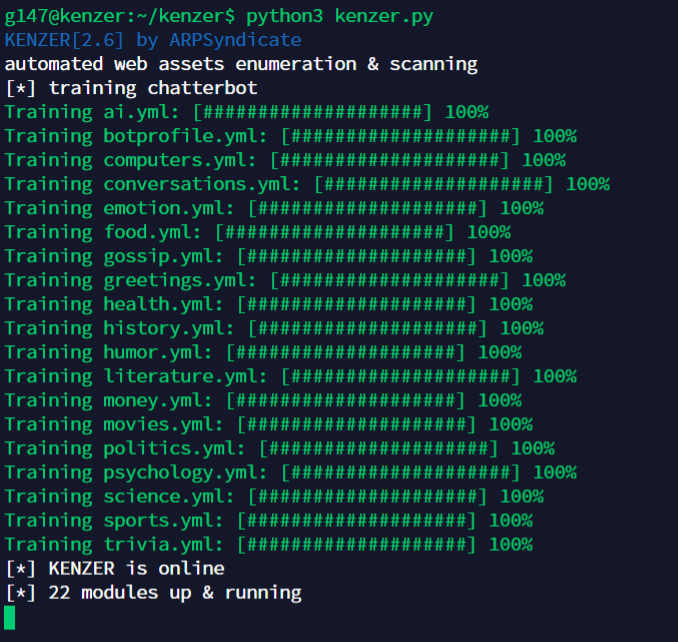
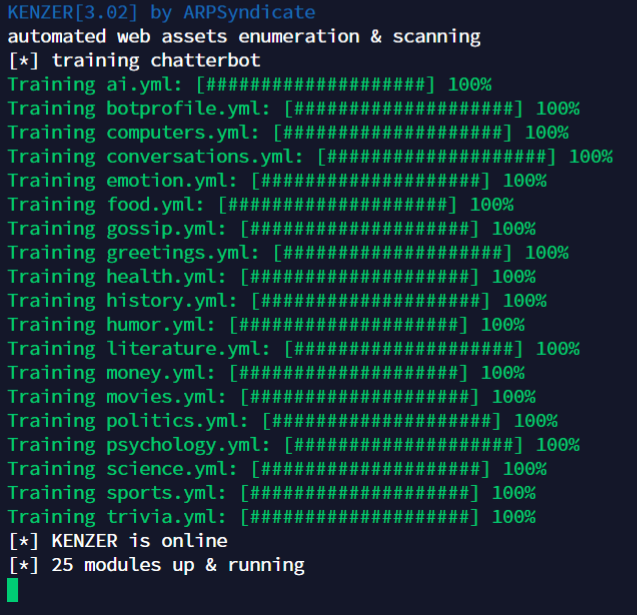
kenzer[3.02]

diff --git a/kenzer.py b/kenzer.py
@@ -49,7 +49,7 @@ class Kenzer(object):
     
     #initializations
     def __init__(self):
-        print(BLUE+"KENZER[3.01] by ARPSyndicate"+CLEAR)
+        print(BLUE+"KENZER[3.02] by ARPSyndicate"+CLEAR)
         print(YELLOW+"automated web assets enumeration & scanning"+CLEAR)
         self.client = zulip.Client(email=_BotMail, site=_Site, api_key=_APIKey)
         self.upload=False
@@ -81,7 +81,7 @@ class Kenzer(object):
 
     #manual
     def man(self):
-        message = "**KENZER[3.01]**\n"
+        message = "**KENZER[3.02]**\n"
         message +="**KENZER modules**\n"
         message +="  `subenum` - enumerates subdomains\n"
         message +="  `webenum` - enumerates webservers\n"
@@ -533,7 +533,7 @@ class Kenzer(object):
         if self.sender_email == _BotMail:
             return
         try:
-            if len(content)>1 and content[0].lower() == "kenzer":
+            if len(content)>1 and content[0].lower() == "@**{0}**".format(_BotMail.split('@')[0].replace("-bot","")):
                 if content[1].lower() == "man":
                     if len(content)==2:
                         self.man()
@@ -599,14 +599,11 @@ class Kenzer(object):
                     self.upload = not self.upload
                     self.sendMessage("upload: "+str(self.upload))
                 else:
-                    message = "excuse me??"
+                    message = self.chatbot.get_response(' '.join(self.content))
+                    message = message.serialize()['text']
                     self.sendMessage(message)
-            else:
-                message = self.chatbot.get_response(' '.join(self.content))
-                message = message.serialize()['text']
-                self.sendMessage(message)
-        except:
-            self.sendMessage("an exception occurred")
+        except Exception as exception:
+            self.sendMessage("Exception: {}".format(type(exception).__name__))
         return    
 
 #main

diff --git a/modules/enumerator.py b/modules/enumerator.py
@@ -26,8 +26,8 @@ class Enumerator:
         output =path+"/subenum.kenz"
         if(os.path.exists(output)):
             self.shuffsolv(output, domain)
-            os.system("mv {1} {0}".format(output, path+"/shuffsolv.log"))
-        os.system("cat {0}/subfinder.log {0}/subenum.kenz* {0}/shuffledns.log {0}/gitdomain.log | sort -u > {1}".format(path, output))
+            os.system("rm {0}".format(output))
+        os.system("cat {0}/subfinder.log {0}/subenum.kenz* {0}/shuffledns.log {0}/shuffsolv.log {0}/gitdomain.log | sort -u > {1}".format(path, output))
         return("completed subenum for: "+domain) 
     
     #enumerates webservers
@@ -39,7 +39,7 @@ class Enumerator:
             return("run portenum for: "+domain)
         output = path+"/httpx.log"
         if(os.path.exists(output)):
-            os.system("mv {0} {0}.old".format(output))
+            os.system("rm {0}".format(output))
         self.httpx(subs, output)
         output = path+"/webenum.kenz"
         if(os.path.exists(output)):
@@ -83,6 +83,8 @@ class Enumerator:
         if(os.path.exists(subs) == False):
             return("run subenum for: "+domain)
         output = path+"/dnsenum.kenz"
+        if(os.path.exists(output)):
+            os.system("mv {0} {0}.old".format(output))
         os.system("dnsx -l {0} -o {1} -a -aaaa -cname -mx -ptr -soa -txt -resp -retry 2".format(subs, path))
         return("completed dnsenum for: "+domain)
     

diff --git a/README.md b/README.md
@@ -10,11 +10,13 @@
 3. Create a new generic bot named `kenzer`<br>
 4. Add all the configurations in `configs/kenzer.conf`<br>
 5. Install/Run using - <br>
-    * `./install.sh -binaries` [if you need `kenzer-compatible` binaries to be installed]<br>
+    * `./install.sh -b` [if you need `kenzer-compatible` binaries to be installed]<br>
     * `./install.sh` [if you do not need `kenzer-compatible` binaries to be installed]<br>
     * `./run.sh` [if you do not need installation at all]<br>
+    * `./service.sh` [initialize it as a service post-installation]
 6. Interact with `kenzer` using Zulip client, by adding bot to a stream or via DM.<br>
-7. Test `kenzer man` as Zulip input to display available commands.<br>
+7. Test `@**kenzer** man` as Zulip input to display available commands.<br>
+8. All the commands can be used by mentioning the chatbot using the prefix `@**kenzer**`.<br>
 
 ## Built-in Functionalities
 >* `subenum` - enumerates subdomains
